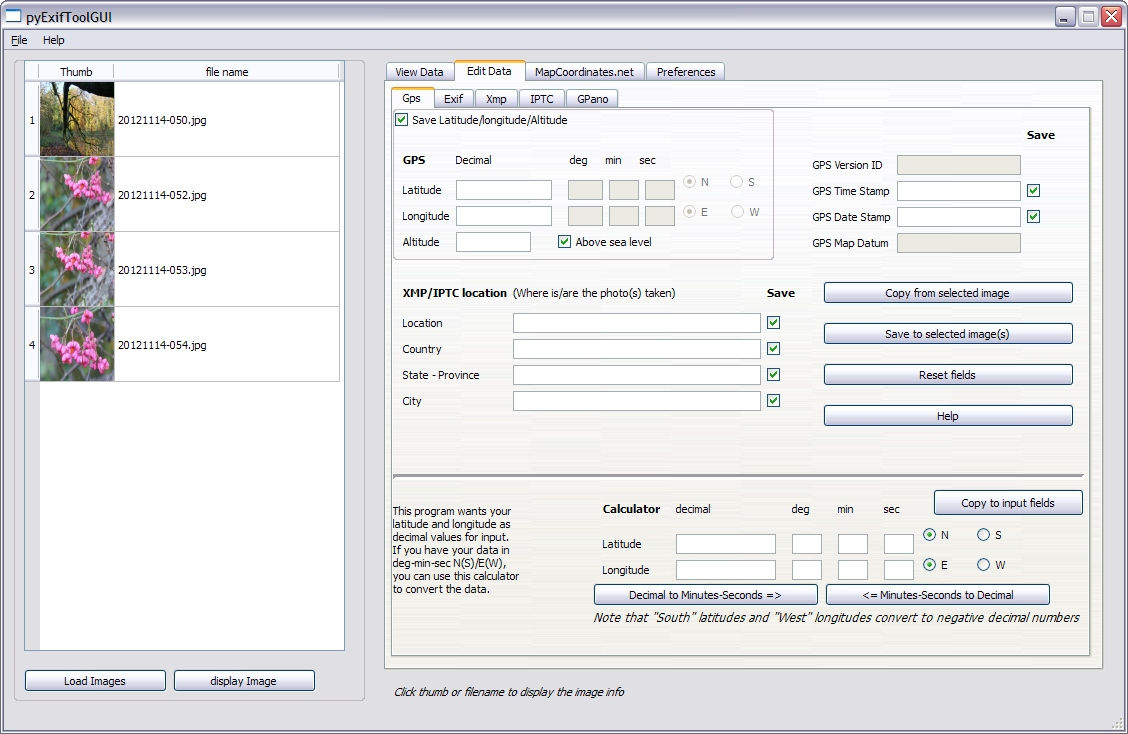
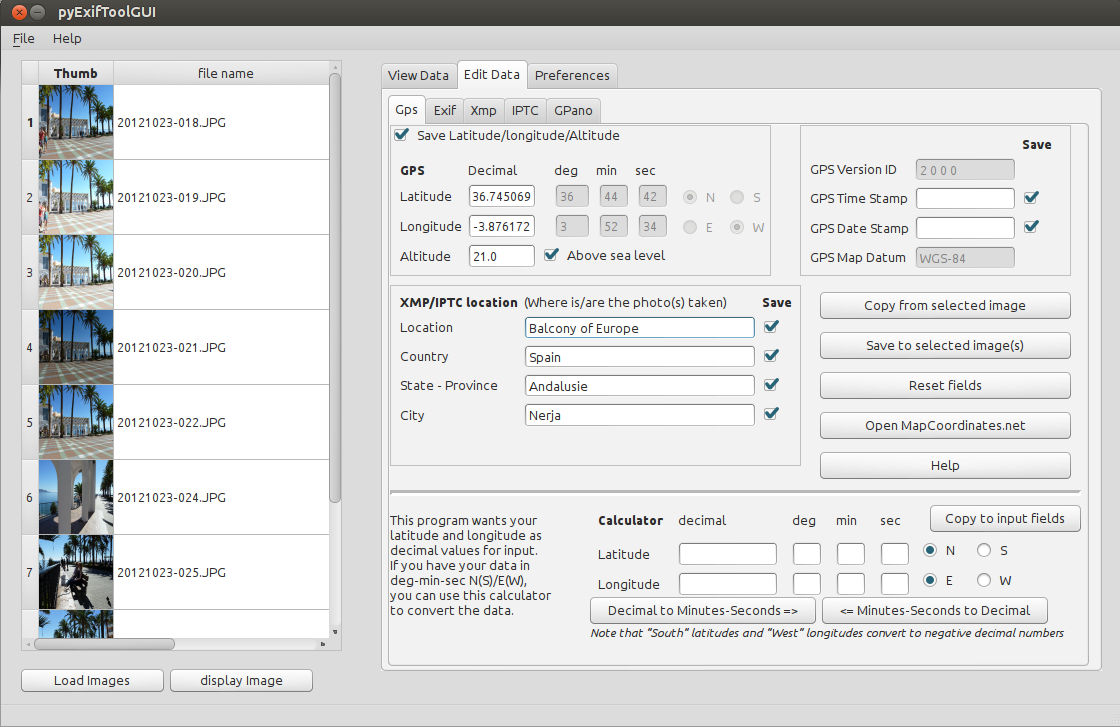
Remove Mapcoordinates webview from application and make it a simple button in the GPS edit tab to open the mapcoordinates website

Changed region(s): [[0.0, 0.0, 1.0, 1.0]]

diff --git a/manual/pyexiftoolgui.html b/manual/pyexiftoolgui.html
@@ -229,6 +229,8 @@ the selected image into the input fields.</li>
 <li><b>Save to selected image(s)</b>: This will save the gps data to your selected image(s).</li></ul></ul>
 <ul><li><h3>General buttons:</h3>
 <ul><li><b>Reset fields</b>: This will empty all fields and set radiobuttons and checkboxes to their defaults.</li>
+<li><b>Open MapCoordinates.net</b>: This will open the mapcoordinates.net website enabling you to get and copy latitude, longitude and altitude data
+ for your photo(s). MapCoordinates is based on Google Maps. Note that the altitude is mostly correct. but sometimes completely wrong.</li>
 <li><b>Help</b>: This button opens the manual you are currently reading.</li></ul></ul>
 <ul><li><h3>Calculator buttons:</h3>
 <ul><li><b>Copy to input fields</b>: This copies the calculated values (bottom half) to the input fields (top half).</li>

diff --git a/ui/ui_MainWindow.py b/ui/ui_MainWindow.py
@@ -2,7 +2,7 @@
 
 # Form implementation generated from reading ui file 'MainWindow.ui'
 #
-# Created: Sat Dec  1 20:15:17 2012
+# Created: Sun Dec  2 08:54:32 2012
 #      by: pyside-uic 0.2.13 running on PySide 1.1.1
 #
 # WARNING! All changes made in this file will be lost!
@@ -29,7 +29,7 @@ class Ui_MainWindow(object):
         self.progressbar.setObjectName("progressbar")
         self.lbl_progress = QtGui.QLabel(self.centralwidget)
         self.lbl_progress.setEnabled(True)
-        self.lbl_progress.setGeometry(QtCore.QRect(390, 630, 481, 24))
+        self.lbl_progress.setGeometry(QtCore.QRect(370, 630, 501, 24))
         font = QtGui.QFont()
         font.setWeight(50)
         font.setItalic(True)
@@ -138,7 +138,7 @@ class Ui_MainWindow(object):
         self.editgpstab = QtGui.QWidget()
         self.editgpstab.setObjectName("editgpstab")
         self.verticalLayoutWidget = QtGui.QWidget(self.editgpstab)
-        self.verticalLayoutWidget.setGeometry(QtCore.QRect(430, 160, 251, 171))
+        self.verticalLayoutWidget.setGeometry(QtCore.QRect(430, 160, 251, 201))
         self.verticalLayoutWidget.setObjectName("verticalLayoutWidget")
         self.verticalLayout = QtGui.QVBoxLayout(self.verticalLayoutWidget)
         self.verticalLayout.setContentsMargins(0, 0, 0, 0)
@@ -152,6 +152,9 @@ class Ui_MainWindow(object):
         self.btn_resetgps = QtGui.QPushButton(self.verticalLayoutWidget)
         self.btn_resetgps.setObjectName("btn_resetgps")
         self.verticalLayout.addWidget(self.btn_resetgps)
+        self.btn_mapcoordinates = QtGui.QPushButton(self.verticalLayoutWidget)
+        self.btn_mapcoordinates.setObjectName("btn_mapcoordinates")
+        self.verticalLayout.addWidget(self.btn_mapcoordinates)
         self.btn_gpshelp = QtGui.QPushButton(self.verticalLayoutWidget)
         font = QtGui.QFont()
         font.setWeight(50)
@@ -1096,13 +1099,6 @@ class Ui_MainWindow(object):
         self.verticalLayout_2.addWidget(self.lbl_exiftool_to_low_2)
         self.tabWidget_2.addTab(self.editgpanotab, "")
         self.tabWidget.addTab(self.edittab, "")
-        self.tab = QtGui.QWidget()
-        self.tab.setObjectName("tab")
-        self.webView = QtWebKit.QWebView(self.tab)
-        self.webView.setGeometry(QtCore.QRect(-1, -1, 711, 571))
-        self.webView.setUrl(QtCore.QUrl("http://www.mapcoordinates.net/en"))
-        self.webView.setObjectName("webView")
-        self.tabWidget.addTab(self.tab, "")
         self.preferencestab = QtGui.QWidget()
         self.preferencestab.setObjectName("preferencestab")
         self.frame_2 = QtGui.QFrame(self.preferencestab)
@@ -1263,6 +1259,8 @@ class Ui_MainWindow(object):
         self.btn_savegps.setText(QtGui.QApplication.translate("MainWindow", "Save to selected image(s)", None, QtGui.QApplication.UnicodeUTF8))
         self.btn_resetgps.setToolTip(QtGui.QApplication.translate("MainWindow", "Empties all fields", None, QtGui.QApplication.UnicodeUTF8))
         self.btn_resetgps.setText(QtGui.QApplication.translate("MainWindow", "Reset fields", None, QtGui.QApplication.UnicodeUTF8))
+        self.btn_mapcoordinates.setToolTip(QtGui.QApplication.translate("MainWindow", "This will open the mapcoordinates.net website enabling you to get and copy  lat/lon/alt data for your photo(s)", None, QtGui.QApplication.UnicodeUTF8))
+        self.btn_mapcoordinates.setText(QtGui.QApplication.translate("MainWindow", "Open MapCoordinates.net", None, QtGui.QApplication.UnicodeUTF8))
         self.btn_gpshelp.setToolTip(QtGui.QApplication.translate("MainWindow", "Opens a popup with some additional info on this screen", None, QtGui.QApplication.UnicodeUTF8))
         self.btn_gpshelp.setText(QtGui.QApplication.translate("MainWindow", "Help", None, QtGui.QApplication.UnicodeUTF8))
         self.btn_copy_calc_to_gps.setToolTip(QtGui.QApplication.translate("MainWindow", "Copy the values from the calculator to the input fields", None, QtGui.QApplication.UnicodeUTF8))
@@ -1413,7 +1411,6 @@ class Ui_MainWindow(object):
         self.label_10.setText(QtGui.QApplication.translate("MainWindow", "Panorama tags for Google Photosphere. Requires exiftool 9.07 or newer", None, QtGui.QApplication.UnicodeUTF8))
         self.tabWidget_2.setTabText(self.tabWidget_2.indexOf(self.editgpanotab), QtGui.QApplication.translate("MainWindow", "GPano", None, QtGui.QApplication.UnicodeUTF8))
         self.tabWidget.setTabText(self.tabWidget.indexOf(self.edittab), QtGui.QApplication.translate("MainWindow", "Edit Data", None, QtGui.QApplication.UnicodeUTF8))
-        self.tabWidget.setTabText(self.tabWidget.indexOf(self.tab), QtGui.QApplication.translate("MainWindow", "MapCoordinates.net", None, QtGui.QApplication.UnicodeUTF8))
         self.frame_2.setToolTip(QtGui.QApplication.translate("MainWindow", "The program will go for the default exiftool version. Here you can specify another version.", None, QtGui.QApplication.UnicodeUTF8))
         self.label_8.setToolTip(QtGui.QApplication.translate("MainWindow", "The program will go for the default exiftool version. Here you can specify another version.", None, QtGui.QApplication.UnicodeUTF8))
         self.label_8.setText(QtGui.QApplication.translate("MainWindow", "Exiftool", None, QtGui.QApplication.UnicodeUTF8))
@@ -1444,4 +1441,3 @@ class Ui_MainWindow(object):
         self.mnu_action_mapcoordinates_tab.setText(QtGui.QApplication.translate("MainWindow", "MapCoordinates.net tab", None, QtGui.QApplication.UnicodeUTF8))
         self.mnu_action_pyexiftoolgui_home.setText(QtGui.QApplication.translate("MainWindow", "pyExifToolGUI homepage", None, QtGui.QApplication.UnicodeUTF8))
 
-from PySide import QtWebKit

diff --git a/pyexiftoolgui.py b/pyexiftoolgui.py
@@ -94,6 +94,7 @@ class MainWindow(QMainWindow, Ui_MainWindow):
         self.btn_gps_copyfrom.setEnabled(False)
         self.btn_savegps.clicked.connect(self.savegpsdata)
         self.btn_savegps.setEnabled(False)
+        self.btn_mapcoordinates.clicked.connect(self.open_mapcoordinates)
 # Load several buttons from the Edit -> EXIF tab
         self.btn_exifhelp.clicked.connect(self.exif_help)
         self.btn_exif_copyfrom.clicked.connect(self.copyexiffromselected)
@@ -327,6 +328,12 @@ class MainWindow(QMainWindow, Ui_MainWindow):
 
     def savegpsdata(self):
         petgfunctions.savegpsdata(self, qApp)
+
+    def open_mapcoordinates(self):
+	try:
+		webbrowser.open("http://www.mapcoordinates.net/en")
+	except:
+		QMessageBox.critical(self, "Error!", "Unable to open the MapCoordinates.net website" )
 
 # Edit -> EXIF tab
     def clear_exif_fields(self):
